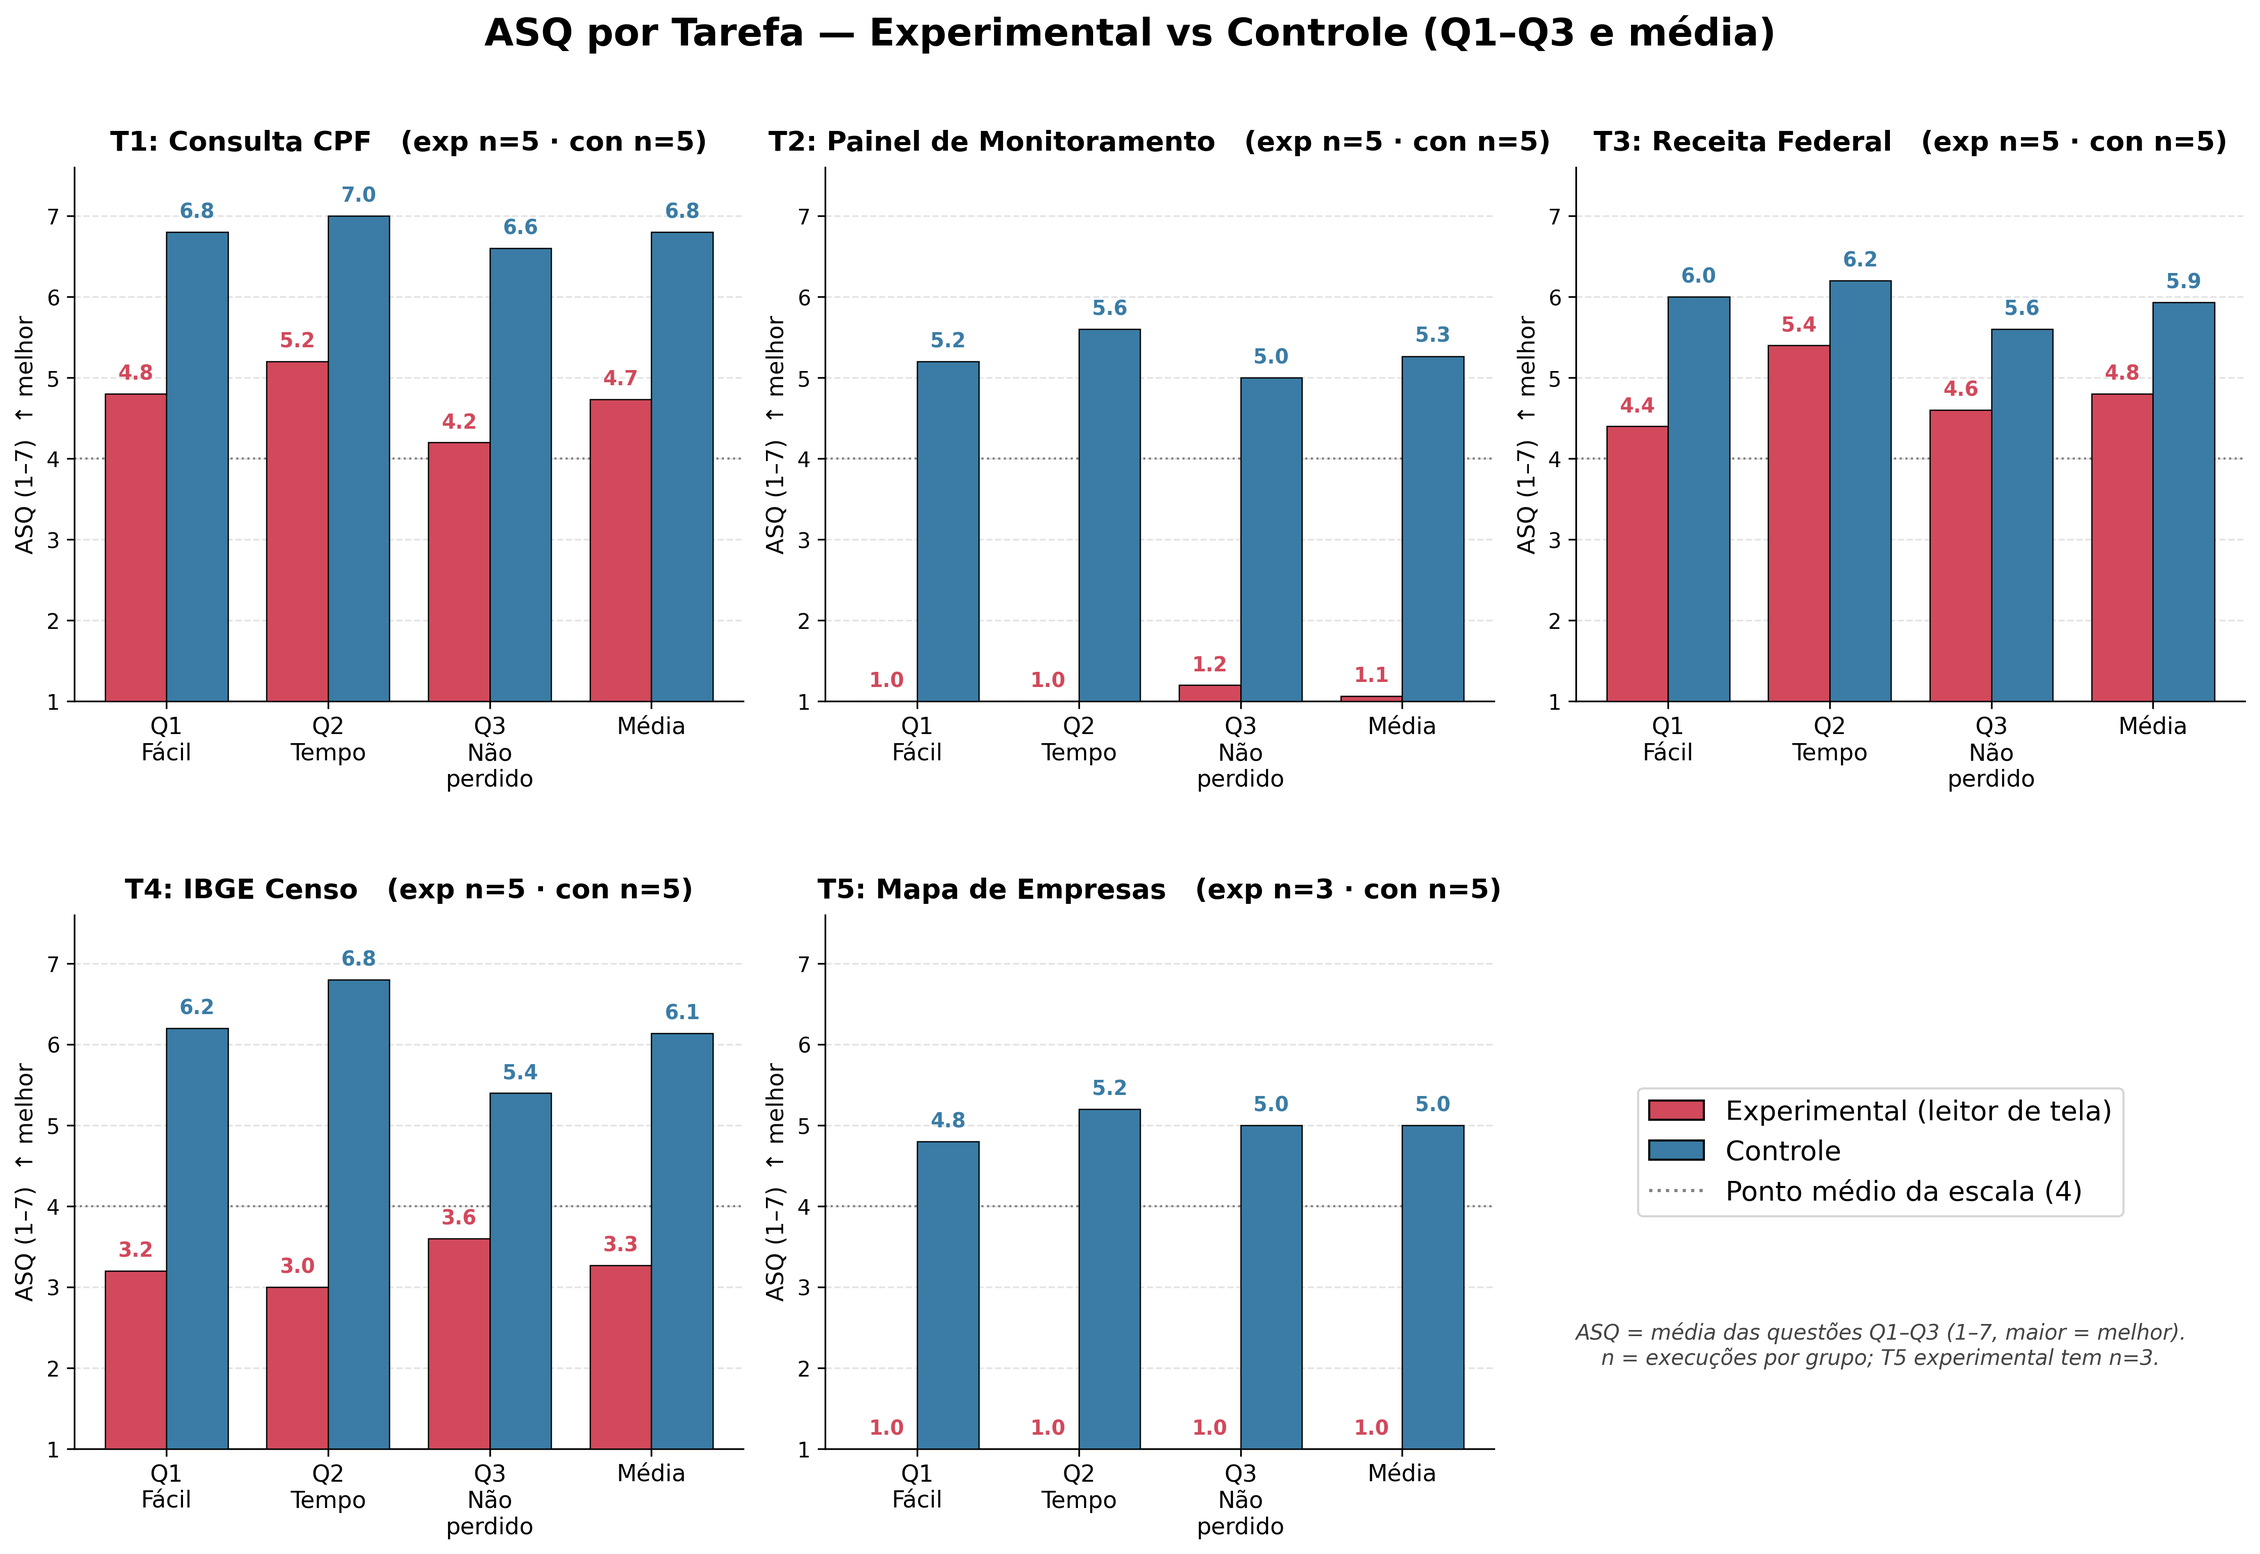
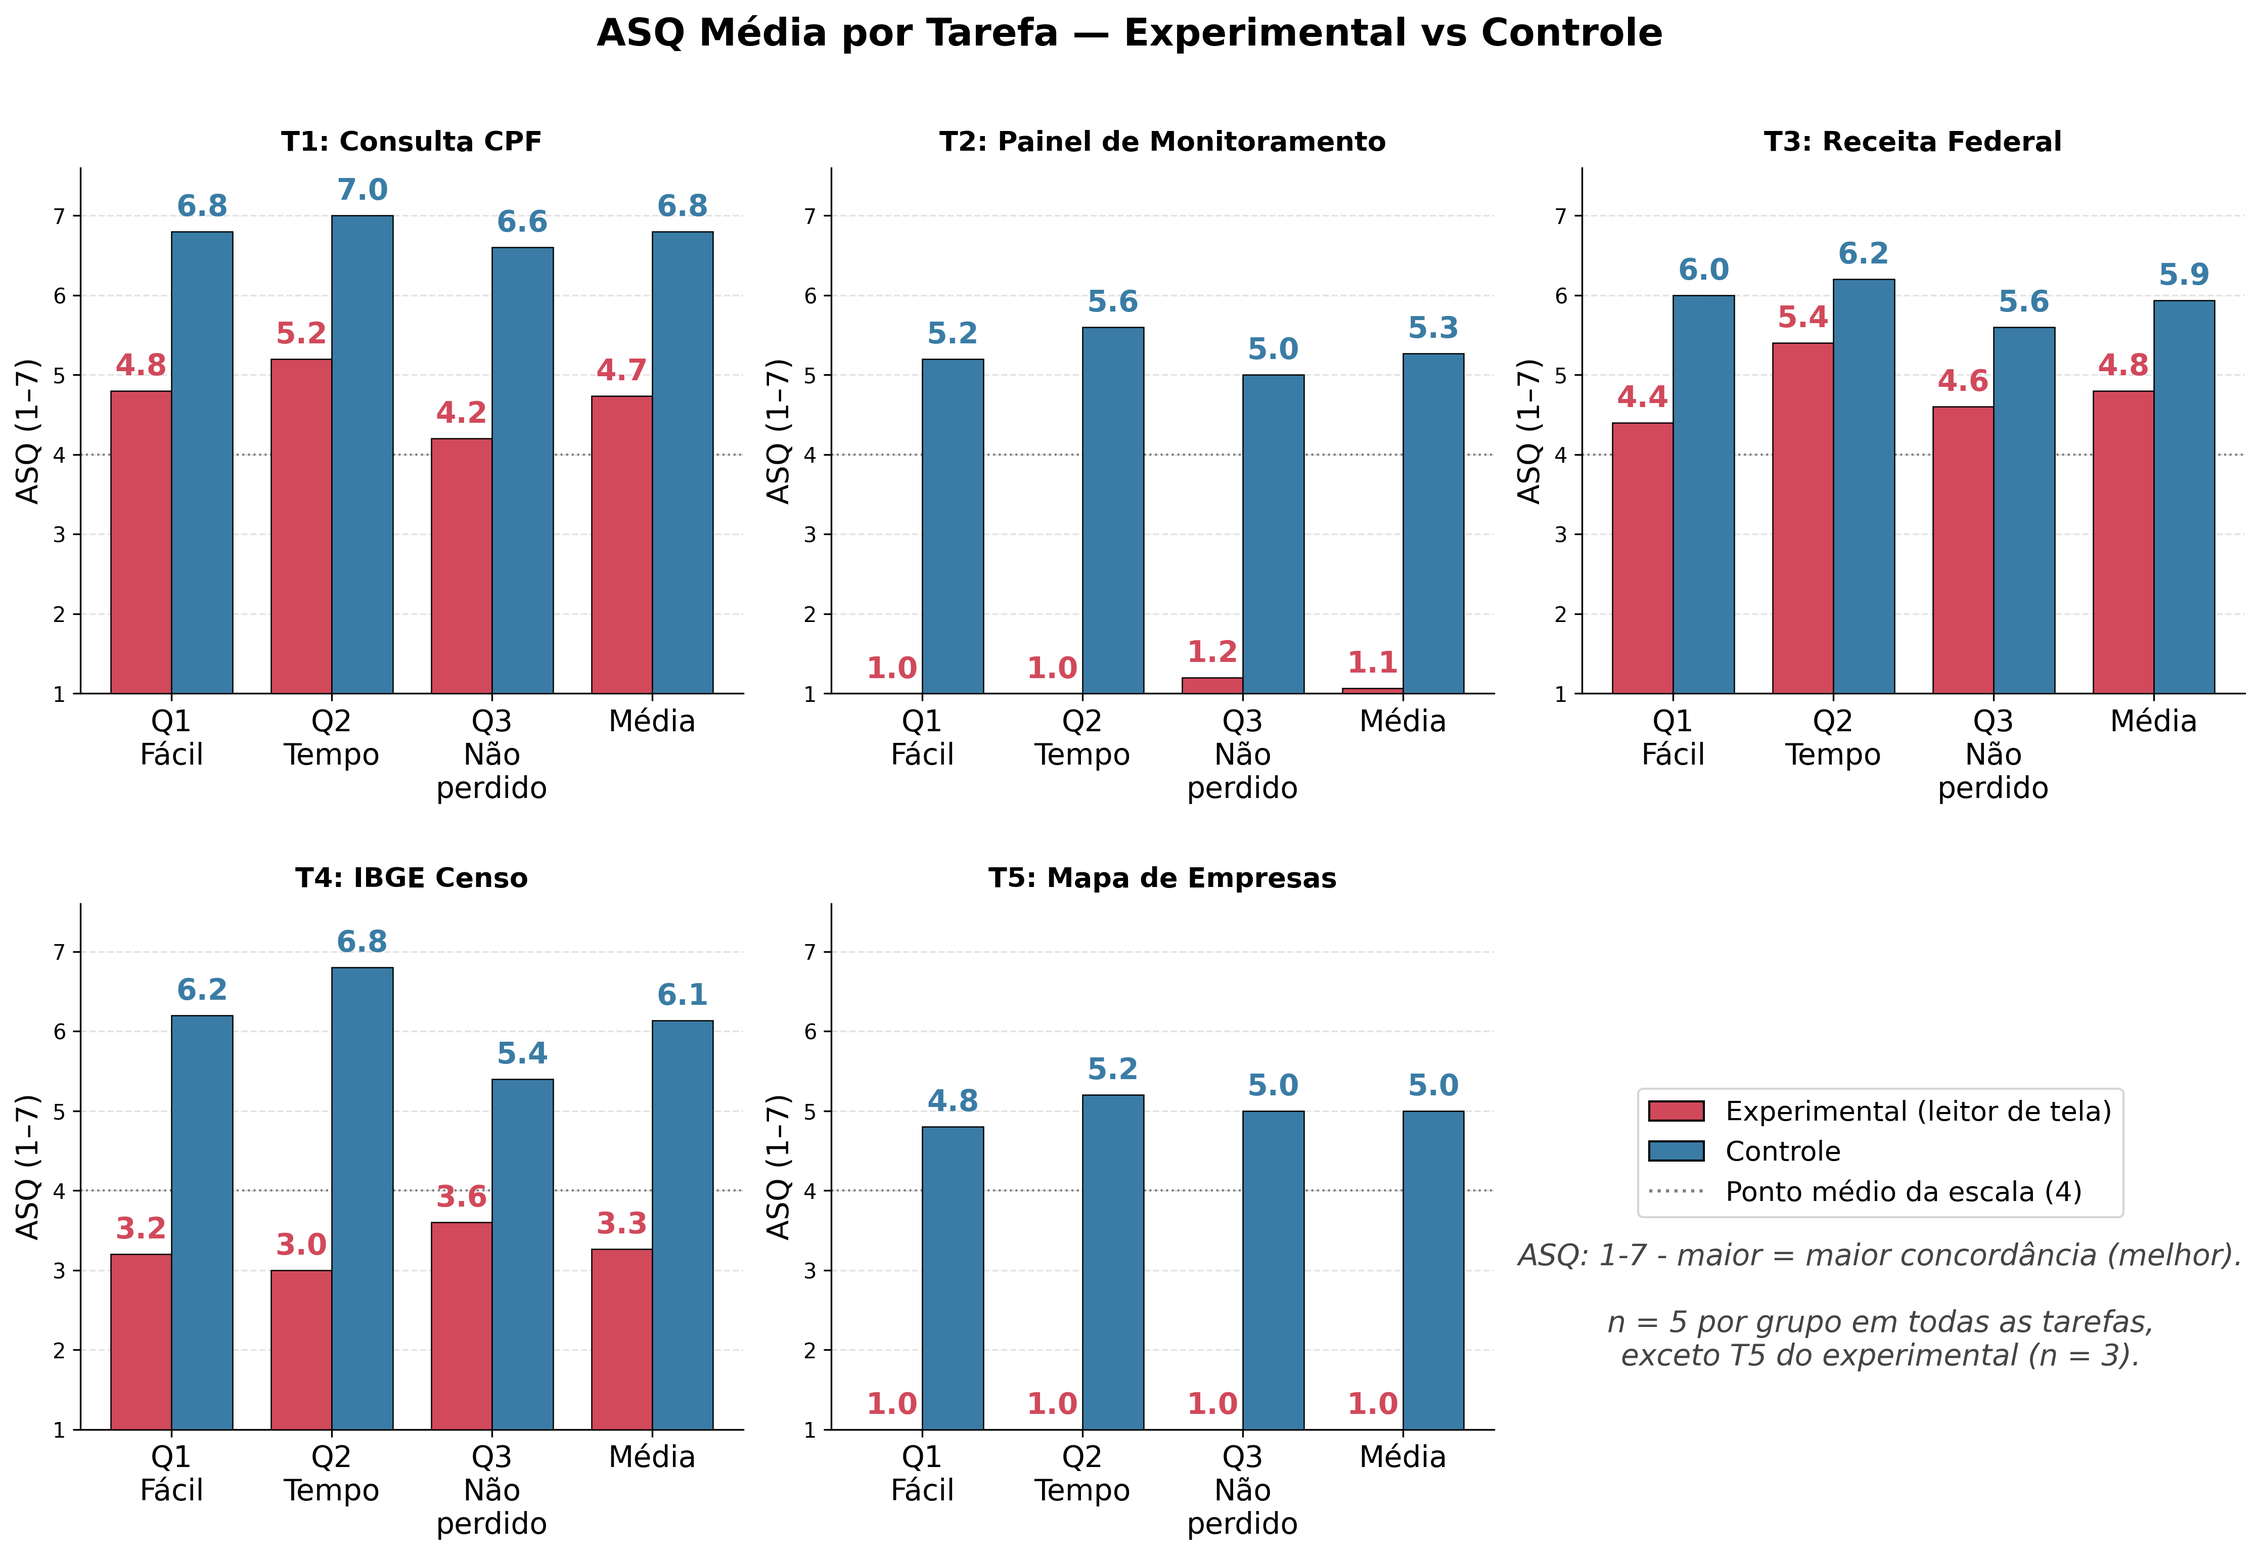
Ajustes

diff --git a/asq_radar.py b/asq_radar.py
@@ -7,26 +7,20 @@ from matplotlib.legend_handler import HandlerTuple
 # Carregar os dados
 df = pd.read_csv("coleta_dados_pesquisa_v3 - asq_nasatlx.csv")
 
-# Selecionar as colunas do NASA-TLX
-tlx_cols = [
-    'tlx_demanda_mental', 'tlx_demanda_fisica',
-    'tlx_demanda_temporal', 'tlx_desempenho',
-    'tlx_esforco', 'tlx_frustracao'
-]
+# Questões do ASQ que entram no radar (1-7, maior = melhor)
+asq_cols = ['asq_q1_facil', 'asq_q2_tempo', 'asq_q3_nao_perdido']
 
 # Rótulos para o gráfico
-labels = [
-    'Demanda\nMental', 'Demanda\nFísica', 'Demanda\nTemporal',
-    'Desempenho', 'Esforço', 'Frustração'
-]
+labels = ['Q1\nFácil', 'Q2\nTempo', 'Q3\nNão perdido']
 
 # Garantir que os dados são numéricos
-for col in tlx_cols:
+for col in asq_cols:
     df[col] = pd.to_numeric(df[col], errors='coerce')
 
 # Grupo derivado do prefixo de participante_id (exp = experimental, con = controle)
 df = df[df['participante_id'].notna()].copy()
 df['grupo'] = df['participante_id'].str.slice(0, 3)
+df['tarefa_num'] = pd.to_numeric(df['tarefa_num'], errors='coerce')
 
 # Nomes das tarefas
 nomes_tarefas = {
@@ -40,8 +34,8 @@ nomes_tarefas = {
 # Cores por tarefa (identidade de cada subplot)
 cores = ['#ff7f0e', '#2ca02c', '#d62728', '#9467bd', '#8c564b']
 
-# Escala fixa para o TLX (0-20, maior = pior) -> as duas figuras ficam comparáveis
-TLX_MAX = 20
+# Escala fixa para o ASQ (1-7, maior = melhor) -> as duas figuras ficam comparáveis
+ASQ_MIN, ASQ_MAX = 1, 7
 
 # Ângulos do radar
 num_vars = len(labels)
@@ -51,11 +45,11 @@ angles += angles[:1]
 
 def gerar_radar_grupo(df_grupo, grupo_key, grupo_nome, arquivo,
                       ref_por_tarefa=None, ref_nome=None):
-    """Gera a grade 2x3 de radares NASA-TLX para um único grupo.
+    """Gera a grade 2x3 de radares ASQ para um único grupo.
     ref_por_tarefa: dict {tarefa: vetor de referência} a usar como fundo cinza
     (ex.: média do controle por tarefa). Se None, usa a média geral do grupo."""
     # Média geral do grupo (referência de fundo padrão)
-    overall_mean = df_grupo[tlx_cols].mean().values
+    overall_mean = df_grupo[asq_cols].mean().values
     overall_mean = np.append(overall_mean, overall_mean[0])
 
     fig, axes = plt.subplots(2, 3, figsize=(15, 10), subplot_kw=dict(polar=True))
@@ -65,7 +59,7 @@ def gerar_radar_grupo(df_grupo, grupo_key, grupo_nome, arquivo,
         tarefa_num = i + 1
         ax = axes[i]
 
-        sub = df_grupo[df_grupo['tarefa_num'] == tarefa_num][tlx_cols]
+        sub = df_grupo[df_grupo['tarefa_num'] == tarefa_num][asq_cols]
         t_mean = sub.mean().values
 
         if np.isnan(t_mean).all():
@@ -77,9 +71,10 @@ def gerar_radar_grupo(df_grupo, grupo_key, grupo_nome, arquivo,
         ax.set_theta_offset(np.pi / 2)
         ax.set_theta_direction(-1)
         ax.set_xticks(angles[:-1])
-        ax.set_xticklabels(labels, size=16)
-        ax.tick_params(axis='y', labelsize=12)
-        ax.set_ylim(0, TLX_MAX)
+        ax.set_xticklabels(labels, size=15)
+        ax.set_yticks([1, 3, 5, 7])
+        ax.tick_params(axis='y', labelsize=11)
+        ax.set_ylim(ASQ_MIN, ASQ_MAX)
 
         # Referência de fundo (cinza): controle por tarefa, ou média geral do grupo
         if ref_por_tarefa is not None:
@@ -104,7 +99,7 @@ def gerar_radar_grupo(df_grupo, grupo_key, grupo_nome, arquivo,
     fig.delaxes(axes[5])
 
     plt.suptitle(
-        f'NASA-TLX Média por Tarefa — {grupo_nome} vs Controle',
+        f'ASQ Média por Tarefa — {grupo_nome} vs Controle',
         size=18, fontweight='bold', y=1.05)
     plt.tight_layout()
     fig.subplots_adjust(hspace=0.45)
@@ -117,12 +112,11 @@ def gerar_radar_grupo(df_grupo, grupo_key, grupo_nome, arquivo,
     fig.legend([exp_handle, ref_handle],
                [f'{grupo_nome} (linhas coloridas)', ref_label_geral],
                handler_map={tuple: HandlerTuple(ndivide=None)},
-               loc='center', bbox_to_anchor=(0.83, 0.27), fontsize=14)
+               loc='center', bbox_to_anchor=(0.83, 0.27), fontsize=12)
     fig.text(0.83, 0.13,
-             '\n NASA-TLX: 0–20 por dimensão · maior = pior.\n\n'
-             'n = 5 por grupo em todas as tarefas,\n' 
-             'exceto T5 do experimental (n = 3).',
-             ha='center', fontsize=16, color='#444', style='italic')
+             'ASQ: 1–7 por questão · maior = melhor (concorda com a afirmação).\n'
+             'n = 5 por grupo em todas as tarefas, exceto T5 do experimental (n = 3).',
+             ha='center', fontsize=10.5, color='#444', style='italic')
 
     plt.savefig(arquivo, dpi=300, bbox_inches='tight')
     plt.close(fig)
@@ -133,15 +127,15 @@ def gerar_radar_grupo(df_grupo, grupo_key, grupo_nome, arquivo,
 df_con = df[df['grupo'] == 'con']
 ref_controle = {}
 for t in range(1, 6):
-    m = df_con[df_con['tarefa_num'] == t][tlx_cols].mean().values
+    m = df_con[df_con['tarefa_num'] == t][asq_cols].mean().values
     ref_controle[t] = np.append(m, m[0])
 
 # Experimental: cada tarefa comparada à média do CONTROLE naquela tarefa
 gerar_radar_grupo(df[df['grupo'] == 'exp'], 'exp', 'Experimental',
-                  'radar_tlx_experimental.png',
+                  'asq_radar_experimental.png',
                   ref_por_tarefa=ref_controle, ref_nome='Controle')
 # Controle: mantém a comparação vs. média do próprio grupo
 gerar_radar_grupo(df[df['grupo'] == 'con'], 'con', 'Controle',
-                  'radar_tlx_controle.png')
+                  'asq_radar_controle.png')
 
-print("Gráficos de radar por grupo gerados com sucesso!")
+print("Gráficos de radar ASQ por grupo gerados com sucesso!")

diff --git a/asq_perfil.py b/asq_perfil.py
@@ -1,0 +1,125 @@
+import pandas as pd
+import numpy as np
+import matplotlib.pyplot as plt
+from matplotlib.lines import Line2D
+from matplotlib.legend_handler import HandlerTuple
+
+# Carregar os dados
+df = pd.read_csv("coleta_dados_pesquisa_v3 - asq_nasatlx.csv")
+
+# Questões do ASQ (1-7, maior = melhor)
+asq_cols = ['asq_q1_facil', 'asq_q2_tempo', 'asq_q3_nao_perdido']
+labels = ['Q1\nFácil', 'Q2\nTempo', 'Q3\nNão perdido']
+
+for col in asq_cols:
+    df[col] = pd.to_numeric(df[col], errors='coerce')
+
+# Grupo derivado do prefixo de participante_id (exp = experimental, con = controle)
+df = df[df['participante_id'].notna()].copy()
+df['grupo'] = df['participante_id'].str.slice(0, 3)
+df['tarefa_num'] = pd.to_numeric(df['tarefa_num'], errors='coerce')
+
+nomes_tarefas = {
+    1: 'T1: Consulta CPF',
+    2: 'T2: Painel de Monitoramento',
+    3: 'T3: Receita Federal',
+    4: 'T4: IBGE Censo',
+    5: 'T5: Mapa de Empresas'
+}
+cores = ['#ff7f0e', '#2ca02c', '#d62728', '#9467bd', '#8c564b']
+ASQ_MIN, ASQ_MAX = 1, 7
+xs = list(range(len(labels)))            # eixos paralelos: Q1, Q2, Q3
+
+
+def gerar_perfil_grupo(df_grupo, grupo_key, grupo_nome, arquivo,
+                       ref_por_tarefa=None, ref_nome=None):
+    """Grade 2x3 de perfis (coordenadas paralelas) ASQ para um único grupo.
+    ref_por_tarefa: dict {tarefa: vetor de referência} a usar como fundo cinza
+    (ex.: média do controle por tarefa). Se None, usa a média geral do grupo."""
+    overall_mean = df_grupo[asq_cols].mean().values
+
+    fig, axes = plt.subplots(2, 3, figsize=(15, 10))
+    axes = axes.flatten()
+
+    for i in range(5):
+        tarefa_num = i + 1
+        ax = axes[i]
+
+        sub = df_grupo[df_grupo['tarefa_num'] == tarefa_num][asq_cols]
+        t_mean = sub.mean().values
+
+        if np.isnan(t_mean).all():
+            ax.set_title(f'{nomes_tarefas[tarefa_num]}\n(Sem dados)', size=12)
+            continue
+
+        # Referência de fundo (cinza): controle por tarefa, ou média geral do grupo
+        if ref_por_tarefa is not None:
+            ref = ref_por_tarefa[tarefa_num]
+            ref_label = ref_nome
+        else:
+            ref = overall_mean
+            ref_label = f'Média geral ({grupo_nome.lower()})'
+        ax.fill_between(xs, ASQ_MIN, ref, color='gray', alpha=0.18, zorder=1)
+        ax.plot(xs, ref, linewidth=2.2, linestyle='solid', marker='o', markersize=7,
+                color='#4d4d4d', alpha=0.85, zorder=3, label=ref_label)
+
+        # Tarefa específica (experimental)
+        ax.fill_between(xs, ASQ_MIN, t_mean, color=cores[i], alpha=0.2, zorder=2)
+        ax.plot(xs, t_mean, linewidth=2, linestyle='solid', marker='o', markersize=7,
+                color=cores[i], zorder=4, label='Experimental')
+
+        ax.set_xticks(xs)
+        ax.set_xticklabels(labels, size=13)
+        ax.set_xlim(-0.15, len(labels) - 0.85)
+        ax.set_yticks(range(1, 8))
+        ax.set_ylim(ASQ_MIN, ASQ_MAX)
+        ax.tick_params(axis='y', labelsize=12)
+        ax.grid(axis='y', linestyle='--', alpha=0.35)
+        ax.set_axisbelow(True)
+        for lado in ('top', 'right'):
+            ax.spines[lado].set_visible(False)
+        ax.set_title(nomes_tarefas[tarefa_num], size=16, fontweight='bold', pad=10)
+
+    # Ocultar o 6º gráfico (só 5 tarefas)
+    fig.delaxes(axes[5])
+
+    plt.suptitle(
+        f'ASQ — Média por Tarefa — {grupo_nome} vs Controle',
+        size=18, fontweight='bold', y=1.0)
+    plt.tight_layout()
+    fig.subplots_adjust(hspace=0.35)
+
+    # Legenda no espaço vazio do 6º subplot: cores = grupo da figura; cinza = referência
+    ref_label_geral = ref_nome if ref_por_tarefa is not None \
+        else f'Média geral ({grupo_nome.lower()})'
+    exp_handle = tuple(Line2D([0], [0], color=cores[i], lw=2.4) for i in range(5))
+    ref_handle = Line2D([0], [0], color='#4d4d4d', lw=2.2)
+    fig.legend([exp_handle, ref_handle],
+               [f'{grupo_nome} (linhas coloridas)', ref_label_geral],
+               handler_map={tuple: HandlerTuple(ndivide=None)},
+               loc='center', bbox_to_anchor=(0.83, 0.27), fontsize=14)
+    fig.text(0.83, 0.13,
+             '\nASQ: 1–7 por questão · maior = melhor.\n\n'
+             'n = 5 por grupo em todas as tarefas,\n'
+             ' exceto T5 do experimental (n = 3).',
+             ha='center', fontsize=15, color='#444', style='italic')
+
+    plt.savefig(arquivo, dpi=300, bbox_inches='tight')
+    plt.close(fig)
+    print(f'Salvo: {arquivo}')
+
+
+# Média do controle por tarefa (referência do perfil experimental)
+df_con = df[df['grupo'] == 'con']
+ref_controle = {t: df_con[df_con['tarefa_num'] == t][asq_cols].mean().values
+                for t in range(1, 6)}
+
+# Experimental: cada tarefa comparada à média do CONTROLE naquela tarefa
+gerar_perfil_grupo(df[df['grupo'] == 'exp'], 'exp', 'Experimental',
+                   'asq_perfil_experimental.png',
+                   ref_por_tarefa=ref_controle, ref_nome='Controle')
+# Controle: mantém a comparação vs. média do próprio grupo
+gerar_perfil_grupo(df[df['grupo'] == 'con'], 'con', 'Controle',
+                   'asq_perfil_controle.png')
+
+print("Gráficos de perfil ASQ por grupo gerados com sucesso!")

diff --git a/asq_barras_por_tarefa.py b/asq_barras_por_tarefa.py
@@ -47,10 +47,8 @@ for i in range(5):
     ax = axes[i]
     sub = df[df['tarefa_num'] == t]
 
-    ns = {}
     for j, g in enumerate(['exp', 'con']):
         sg = sub[sub['grupo'] == g]
-        ns[g] = int(sg['asq_medio'].notna().sum())
         vals = [sg['asq_q1_facil'].mean(), sg['asq_q2_tempo'].mean(),
                 sg['asq_q3_nao_perdido'].mean(), sg['asq_medio'].mean()]
         offset = (j - 0.5) * width
@@ -62,17 +60,16 @@ for i in range(5):
         for b, v in zip(bars, vals):
             if not np.isnan(v):
                 ax.text(b.get_x() + b.get_width() / 2, v + 0.12, f'{v:.1f}',
-                        ha='center', va='bottom', fontsize=9.5,
+                        ha='center', va='bottom', fontsize=14,
                         fontweight='bold', color=cor_grupo[g])
 
     ax.axhline(4, color='gray', linestyle=':', linewidth=1, zorder=1)  # ponto médio da escala
     ax.set_ylim(1, 7.6)
     ax.set_yticks(range(1, 8))
     ax.set_xticks(xpos)
-    ax.set_xticklabels(cats, fontsize=11)
-    ax.set_ylabel('ASQ (1–7)  ↑ melhor', fontsize=11)
-    ax.set_title(f'{nomes_tarefas[t]}   (exp n={ns["exp"]} · con n={ns["con"]})',
-                 fontsize=13, fontweight='bold', pad=8)
+    ax.set_xticklabels(cats, fontsize=14)
+    ax.set_ylabel('ASQ (1–7)', fontsize=14)
+    ax.set_title(nomes_tarefas[t], fontsize=13, fontweight='bold', pad=8)
     ax.grid(axis='y', linestyle='--', alpha=0.35, zorder=0)
     ax.set_axisbelow(True)
     ax.spines['top'].set_visible(False)
@@ -86,11 +83,12 @@ leg_handles = [Patch(facecolor=cor_grupo['exp'], edgecolor='black', label='Exper
 fig.legend(handles=leg_handles, loc='center', bbox_to_anchor=(0.83, 0.27),
            fontsize=13, frameon=True)
 fig.text(0.83, 0.13,
-         'ASQ = média das questões Q1–Q3 (1–7, maior = melhor).\n'
-         'n = execuções por grupo; T5 experimental tem n=3.',
-         ha='center', fontsize=10, color='#444', style='italic')
+         'ASQ: 1-7 - maior = maior concordância (melhor).\n\n'
+         'n = 5 por grupo em todas as tarefas,\n' 
+         'exceto T5 do experimental (n = 3).',
+         ha='center', fontsize=14, color='#444', style='italic')
 
-plt.suptitle('ASQ por Tarefa — Experimental vs Controle (Q1–Q3 e média)',
+plt.suptitle('ASQ Média por Tarefa — Experimental vs Controle',
              size=18, fontweight='bold', y=1.02)
 plt.tight_layout()
 fig.subplots_adjust(hspace=0.4)
